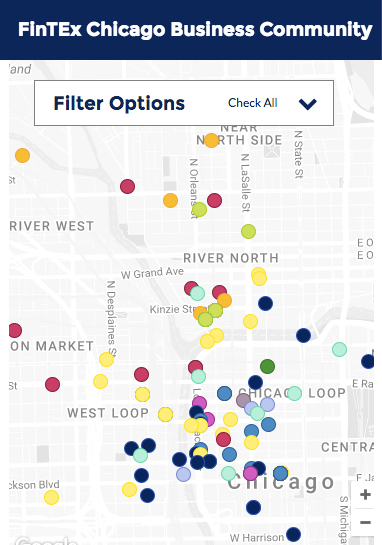
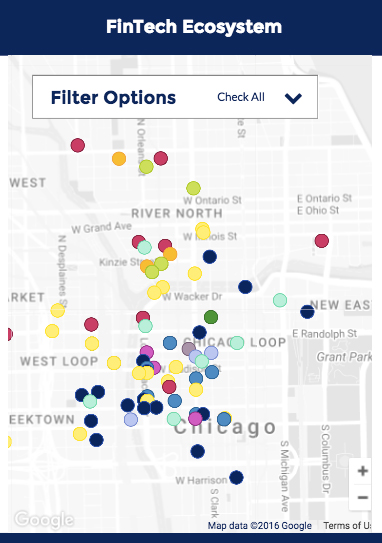
Updated copy and screenshot

diff --git a/FinTExWebSite/public/map.html b/FinTExWebSite/public/map.html
@@ -147,7 +147,7 @@
     </div>
     <ul id="categories"></ul>
   </div>
-<h4 class="map-header">Chicago FinTech Ecosystem</h4>
+<h4 class="map-header">FinTech Ecosystem</h4>
   <div id="map" class="col-md-8 col-xs-12"></div>
 </div>
 <footer class="text-center">
